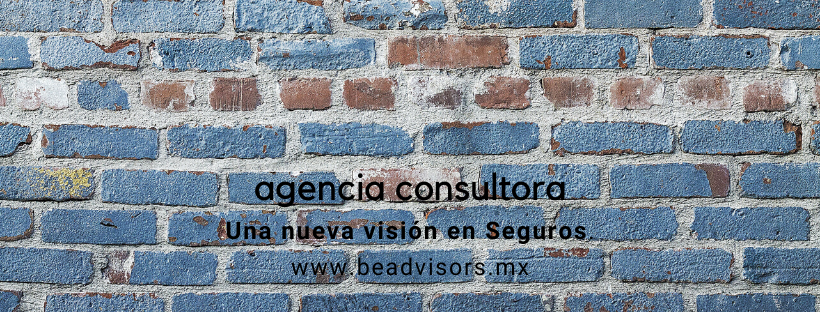
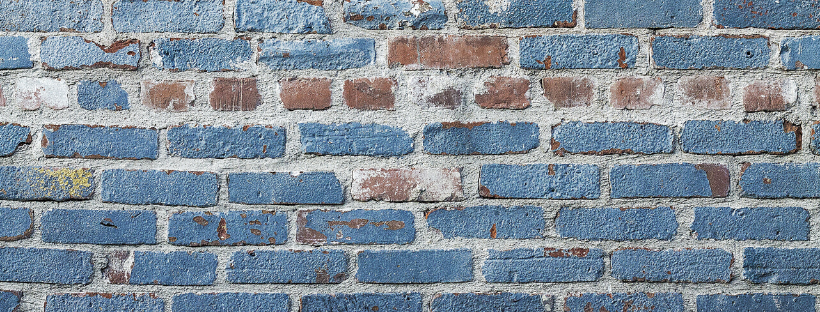
img addedq

Changed region(s): [[0.3049, 0.5481, 0.7012, 0.6635], [0.2744, 0.6923, 0.7317, 0.7788], [0.3354, 0.8365, 0.6402, 0.8942]]

diff --git a/style.css b/style.css
@@ -143,6 +143,11 @@ form {
    margin: 20px auto;
   
 }
+
+header {
+
+background-image: url("./images/About\ Us\ Pagina\ Principal\ Banner\ .png");
+}
   
 
 
